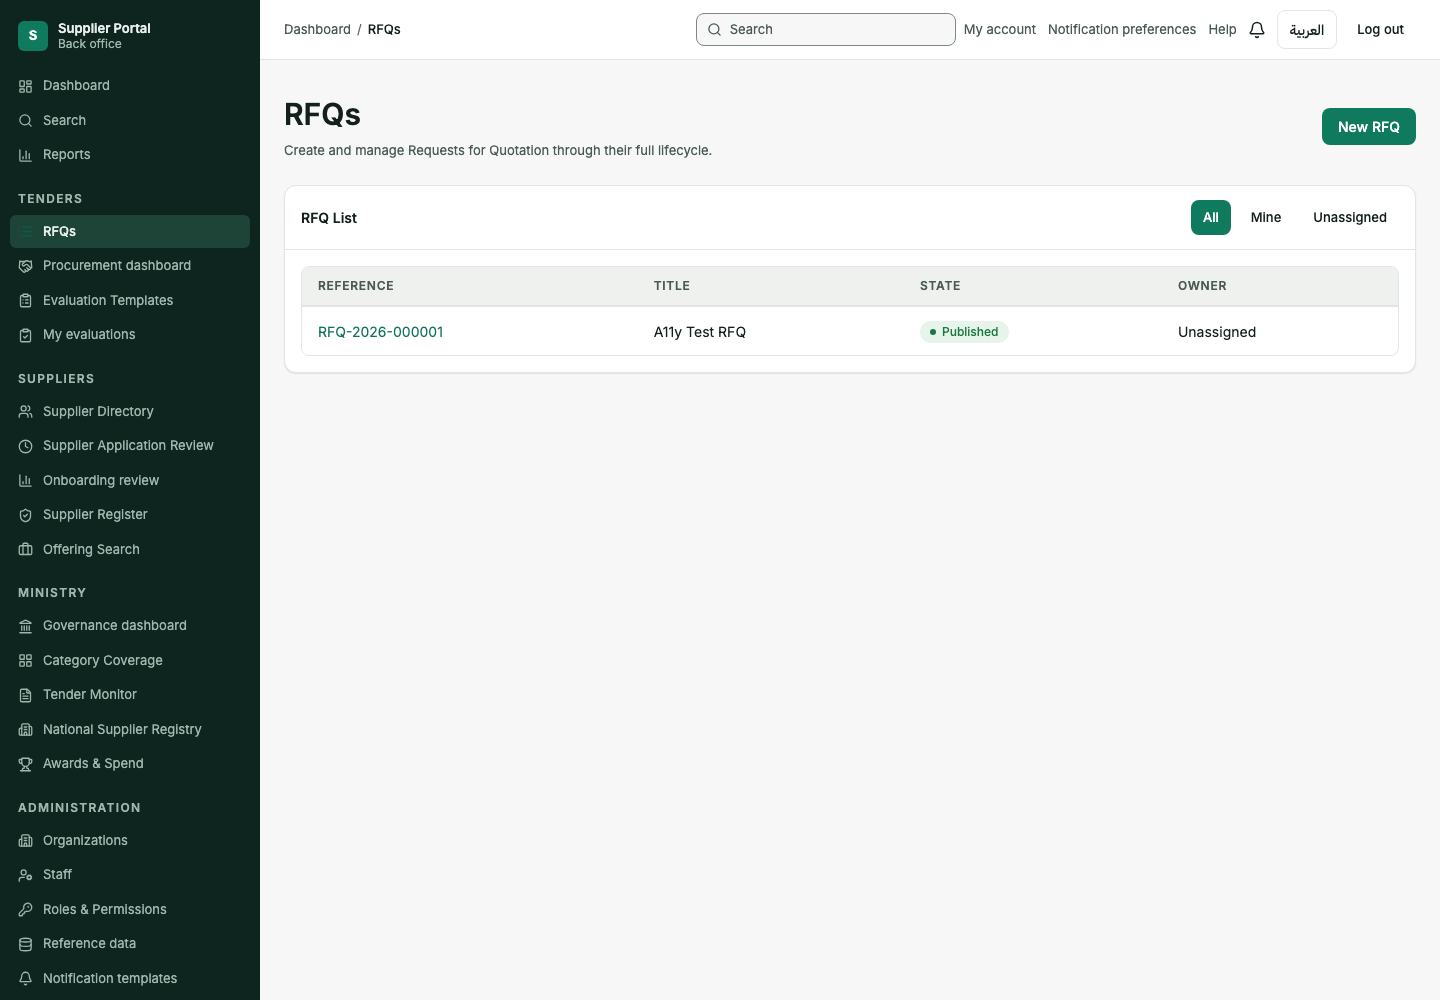
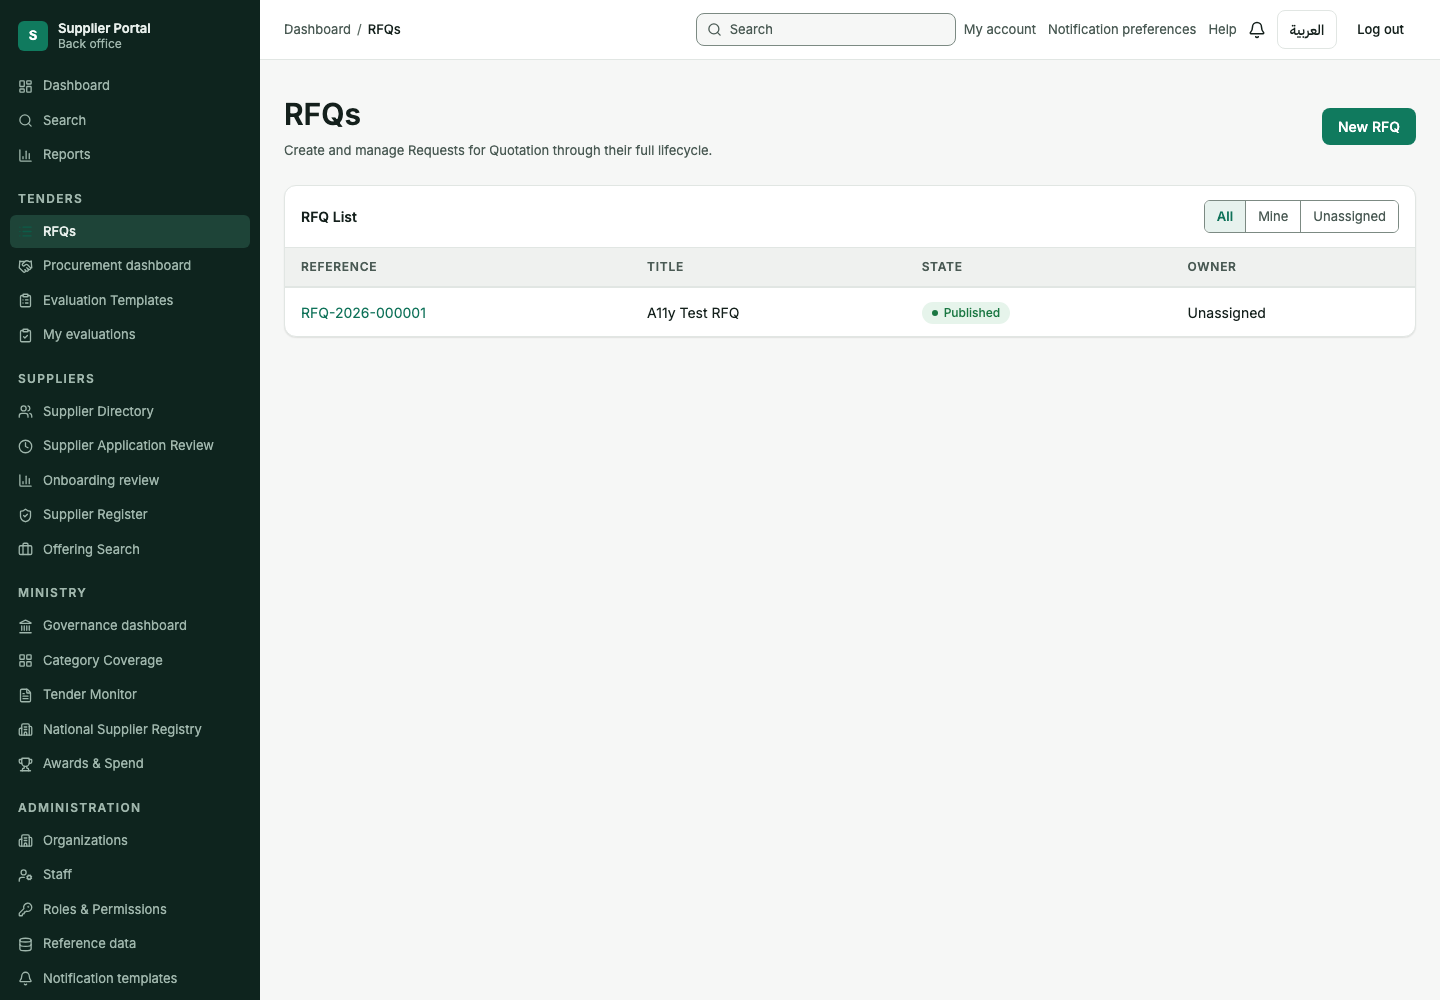
Phase D, the list family: eleven screens become one framed surface (#153)
First of Phase D's four families. Every list screen in the product is now the approved template's
list: a heading with its action beside it, a card whose header carries the list's own filters, and
the table filling that card edge to edge.

THE BOX IN A BOX

A table draws its own border and corners, and it was sitting inside a padded card that drew
another. Two frames a few pixels apart is what every list screen looked like, and it was the one
visible place they departed from the template. Phase C left it alone deliberately, because fixing
it needs the card to know what it is holding.

Card takes `flush` now, and Table takes `flush` to drop the frame something else is providing.
ListCard sets both, because a list card holds exactly one table and knows it. The three states
that are not the table - the skeleton, the failure, the empty line - carry their own padding, and
so does the paging control, because a skeleton pressed against a card's edge reads as broken
rather than as flush.

Two tables needed the exception rather than the rule and got it: the line-items table on a
received proposal sits among other content in a detail panel, so it keeps its own frame because
nothing else there draws one, and the two plain cards that hold a list table went flush to match.

THE FILTER THAT LOOKED LIKE AN ACTION

The tender list drew All / Mine / Unassigned as three separate buttons, the selected one filled
[…]

diff --git a/src/frontend/src/components/ui/SegmentedControl.tsx b/src/frontend/src/components/ui/SegmentedControl.tsx
@@ -1,0 +1,62 @@
+/**
+ * A small set of mutually exclusive filters, drawn as one control rather than as loose buttons.
+ *
+ * <p><b>What it replaces.</b> The tender list drew its All / Mine / Unassigned filter as three separate
+ * buttons, the selected one filled in the brand colour and the other two plain. At a glance that reads
+ * as one primary action beside two secondary ones - the same shape the page's own "New tender" button
+ * uses - rather than as three settings of one switch. The approved template draws it joined and
+ * bordered, with the chosen segment washed rather than filled, and that is what this is.</p>
+ *
+ * <p><b>Why a fieldset.</b> The native element carries the grouping and the legend names it, so a
+ * screen reader announces what the buttons are choosing between before it announces the choices. A
+ * `div` with `role="group"` says the same thing with more markup and less support.</p>
+ */
+import type { ReactNode } from 'react'
+
+export interface Segment<T extends string> {
+  value: T
+  label: ReactNode
+}
+
+export function SegmentedControl<T extends string>({ legend, segments, value, onChange }: Readonly<{
+  /** What the segments are choosing between. Announced, and visually hidden. */
+  legend: string
+  segments: readonly Segment<T>[]
+  value: T
+  onChange: (value: T) => void
+}>) {
+  return (
+    <fieldset className="m-0 border-0 p-0">
+      <legend className="sr-only">{legend}</legend>
+      <div
+        className="inline-flex overflow-hidden rounded-[var(--radius-sm)]"
+        style={{ border: '1px solid var(--color-border-strong)' }}
+      >
+        {segments.map((segment, index) => {
+          const selected = segment.value === value
+          return (
+            <button
+              key={segment.value}
+              type="button"
+              // `aria-pressed` rather than a radio group: these are buttons that act at once, and a
+              // radio would promise a form to submit that does not exist.
+              aria-pressed={selected}
+              onClick={() => onChange(segment.value)}
+              className="px-3 py-1.5 text-[length:var(--text-body-sm)]"
+              style={{
+                backgroundColor: selected ? 'var(--color-accent-wash)' : 'var(--color-bg-surface)',
+                color: selected ? 'var(--color-text-brand)' : 'var(--color-text-secondary)',
+                fontWeight: selected ? 'var(--fw-semibold)' : undefined,
+                // A rule between segments rather than around each: the group has the outer border, so
+                // per-segment borders would double it at both ends.
+                borderInlineStart: index === 0 ? undefined : '1px solid var(--color-border-strong)',
+              }}
+            >
+              {segment.label}
+            </button>
+          )
+        })}
+      </div>
+    </fieldset>
+  )
+}

diff --git a/src/frontend/src/components/ui/ListScreen.tsx b/src/frontend/src/components/ui/ListScreen.tsx
@@ -139,15 +139,20 @@ export function ListState({
   skeletonRows?: number
   children: ReactNode
 }>) {
+  // The three states that are not the caller's content carry their own padding, because the card
+  // around them no longer does: a list card holds a table edge to edge, and a skeleton, an error or
+  // an empty line pressed against that edge reads as broken rather than as flush.
+  const padded = (node: ReactNode) => <div className="p-4">{node}</div>
+
   if (isPending) {
-    return skeleton === 'list'
+    return padded(skeleton === 'list'
       ? <SkeletonList label={loadingLabel} rows={skeletonRows} />
-      : <SkeletonTable label={loadingLabel} rows={skeletonRows} />
+      : <SkeletonTable label={loadingLabel} rows={skeletonRows} />)
   }
   // Delegates rather than rendering its own paragraph. QueryError carries role="alert" and the retry
   // control; a second, quieter error presentation here meant that adopting ListState LOST both.
-  if (isError) return <QueryError error={error} errorText={errorText} onRetry={onRetry} />
-  if (isEmpty) return <p style={{ color: 'var(--color-text-secondary)' }}>{emptyText}</p>
+  if (isError) return padded(<QueryError error={error} errorText={errorText} onRetry={onRetry} />)
+  if (isEmpty) return padded(<p style={{ color: 'var(--color-text-secondary)' }}>{emptyText}</p>)
   return <>{children}</>
 }
 
@@ -204,7 +209,9 @@ export function LoadMore({
 }>) {
   if (!hasNextPage) return null
   return (
-    <div className="mt-4">
+    // Padded rather than margined: this sits below a table that now reaches the card's edges, so the
+    // control needs the inset the card stopped providing.
+    <div className="p-4">
       <Button variant="secondary" isLoading={isFetching} onClick={onClick}>
         {label}
       </Button>
@@ -269,8 +276,16 @@ export function ListCard({
   footer?: ReactNode
   children: ReactNode
 }>) {
+  // Flush, because the one thing a list card holds is a table and a table brings its own edges. The
+  // template's list screen is a single framed surface; a padded card round a bordered table is two
+  // frames a few pixels apart, which is what this looked like before.
+  //
+  // The template also puts a count in this header - "18 tenders". There is no honest count to put
+  // there: these lists are paged, and the envelope's `totalCount` is null unless the request asks for
+  // it, which no request does. A header reading "18 tenders" over seven loaded rows would be the screen
+  // saying something it does not know, so it says nothing.
   return (
-    <Card title={title} action={action}>
+    <Card flush title={title} action={action}>
       <ListState
         isPending={query.isPending}
         isError={query.isError}

diff --git a/src/frontend/src/routes/back-office/RfqListPage.tsx b/src/frontend/src/routes/back-office/RfqListPage.tsx
@@ -2,7 +2,7 @@ import { useState } from 'react'
 import { useTranslation } from 'react-i18next'
 import { useInfiniteQuery, useMutation, useQueryClient } from '@tanstack/react-query'
 import { Link } from '@tanstack/react-router'
-import {Button, Dialog, Field, Input, ListCard, PageHeading, StatusChip, Table, TableBody, TableCell, TableHead, TableHeaderCell, TableRow, useToast} from '../../components/ui'
+import {Button, Dialog, Field, Input, ListCard, PageHeading, SegmentedControl, StatusChip, Table, TableBody, TableCell, TableHead, TableHeaderCell, TableRow, useToast} from '../../components/ui'
 import { invalidateQuietly } from '../../lib/queryClient'
 import { nextPageParam } from '../../api/listEnvelope'
 import { listRfqs, createRfq, RfqApiError, type RfqOwnerFilter } from '../../api/rfqs'
@@ -72,27 +72,18 @@ export function RfqListPage() {
           loadMore: t('rfq.loadMore'),
         }}
         action={
-          <fieldset className="m-0 flex flex-wrap gap-2 border-0 p-0">
-            {/* <fieldset>, not <div role="group">: the native element carries the same grouping
-                semantics without asserting a role, and its <legend> is the accessible name rather than
-                an aria-label duplicating one. The classes strip the border and padding a fieldset
-                brings by default. */}
-            <legend className="sr-only">{t('rfq.ownerFilter.label')}</legend>
-            {(['all', 'me', 'unassigned'] as const).map((value) => (
-              <Button
-                key={value}
-                size="sm"
-                variant={owner === value ? 'primary' : 'ghost'}
-                aria-pressed={owner === value}
-                onClick={() => setOwner(value)}
-              >
-                {t(`rfq.ownerFilter.${value}`)}
-              </Button>
-            ))}
-          </fieldset>
+          <SegmentedControl
+            legend={t('rfq.ownerFilter.label')}
+            value={owner}
+            onChange={setOwner}
+            segments={(['all', 'me', 'unassigned'] as const).map((value) => ({
+              value,
+              label: t(`rfq.ownerFilter.${value}`),
+            }))}
+          />
         }
       >
-        <Table caption={t('rfq.listTitle')}>
+        <Table flush caption={t('rfq.listTitle')}>
           <TableHead>
             <TableHeaderCell>{t('rfq.fields.reference')}</TableHeaderCell>
             <TableHeaderCell>{t('rfq.fields.title')}</TableHeaderCell>

diff --git a/src/frontend/src/components/ui/Table.tsx b/src/frontend/src/components/ui/Table.tsx
@@ -14,11 +14,23 @@ function rowBackground(highlight: boolean | undefined, sticky: boolean | undefin
   return undefined
 }
 
-export function Table({ children, caption, maxHeight }: { children: ReactNode; caption?: string; maxHeight?: string }) {
+export function Table({ children, caption, maxHeight, flush = false }: {
+  children: ReactNode
+  caption?: string
+  maxHeight?: string
+  /**
+   * Drop this table's own border and corners, because the surface around it already has them.
+   *
+   * <p>Set by a list card, which holds exactly one table and draws the frame itself. Two frames a few
+   * pixels apart is what a table inside a padded card looked like, and it is the difference between
+   * this product's list screens and the template they are meant to match.</p>
+   */
+  flush?: boolean
+}) {
   return (
     <div
-      className="w-full overflow-auto rounded-[var(--radius-md)]"
-      style={{ border: '1px solid var(--color-border)', maxHeight }}
+      className={`w-full overflow-auto ${flush ? '' : 'rounded-[var(--radius-md)]'}`}
+      style={{ border: flush ? undefined : '1px solid var(--color-border)', maxHeight }}
     >
       {/* The one line that made 13px the most common size on every screen the audit measured: tables are
           the dominant content on 33 of the 65 screens, and this set all of them below the body floor.

diff --git a/src/frontend/src/components/ui/Card.tsx b/src/frontend/src/components/ui/Card.tsx
@@ -3,12 +3,21 @@ import type { ReactNode } from 'react'
 interface CardProps {
   title?: string
   action?: ReactNode
+  /**
+   * Hold the content edge to edge rather than padding it.
+   *
+   * <p>For the one thing that brings its own edges: a table. Padded, a table draws its own frame a few
+   * pixels inside the card's, which reads as a box in a box and is the one place this product's list
+   * screens visibly departed from the approved template. Everything else keeps the padding, because
+   * everything else is content rather than a surface.</p>
+   */
+  flush?: boolean
   children: ReactNode
 }
 
 /** Section container per DESIGN-SYSTEM §6.7 - the surface/border/radius/padding pattern every
  * onboarding section already repeats inline, extracted so new screens don't hand-roll it again. */
-export function Card({ title, action, children }: CardProps) {
+export function Card({ title, action, flush = false, children }: CardProps) {
   return (
     <div
       className="overflow-hidden rounded-[var(--radius-lg)]"
@@ -40,7 +49,7 @@ export function Card({ title, action, children }: CardProps) {
           {action}
         </div>
       ) : null}
-      <div className="p-4">{children}</div>
+      <div className={flush ? '' : 'p-4'}>{children}</div>
     </div>
   )
 }

diff --git a/src/frontend/src/routes/DocumentsPage.tsx b/src/frontend/src/routes/DocumentsPage.tsx
@@ -118,8 +118,8 @@ export function DocumentsPage() {
         </Card>
       ) : null}
 
-      <Card title={t('documents.listTitle')}>
-        <Table caption={t('documents.listTitle')}>
+      <Card flush title={t('documents.listTitle')}>
+        <Table flush caption={t('documents.listTitle')}>
           <TableHead>
             <TableHeaderCell>{t('documents.fields.type')}</TableHeaderCell>
             <TableHeaderCell>{t('documents.fields.required')}</TableHeaderCell>
@@ -217,7 +217,7 @@ export function DocumentsPage() {
           skeleton="list"
           skeletonRows={3}
         >
-          <Table caption={t('documents.historyTitle')}>
+          <Table flush caption={t('documents.historyTitle')}>
             <TableHead>
               <TableHeaderCell>{t('documents.fields.version')}</TableHeaderCell>
               <TableHeaderCell>{t('documents.fields.state')}</TableHeaderCell>

diff --git a/src/frontend/src/routes/back-office/ReceivedProposalsPage.tsx b/src/frontend/src/routes/back-office/ReceivedProposalsPage.tsx
@@ -25,7 +25,7 @@ function ProposalsTable({ proposals, isArabic, locale, onOpen }: Readonly<{
 }>) {
   const { t } = useTranslation()
   return (
-    <Table caption={t('receivedProposals.listTitle')}>
+    <Table flush caption={t('receivedProposals.listTitle')}>
       <TableHead>
         <TableHeaderCell>{t('receivedProposals.fields.supplier')}</TableHeaderCell>
         <TableHeaderCell>{t('receivedProposals.fields.proposal')}</TableHeaderCell>
@@ -211,7 +211,7 @@ export function ReceivedProposalsPage() {
               </Card>
             ) : null}
 
-            <Card title={t('receivedProposals.listTitle')}>
+            <Card flush title={t('receivedProposals.listTitle')}>
               {list && list.proposals.length > 0 ? (
                 <ProposalsTable proposals={list.proposals} isArabic={isArabic} locale={locale} onOpen={setSelected} />
               ) : (

diff --git a/src/frontend/src/routes/ministry/MinistrySupplierRegistryPage.tsx b/src/frontend/src/routes/ministry/MinistrySupplierRegistryPage.tsx
@@ -70,7 +70,7 @@ export function MinistrySupplierRegistryPage() {
         skeletonRows={6}
         labels={{ loading: t('common.loading'), error: t('ministrySuppliers.loadFailed'), empty: t('ministrySuppliers.empty'), loadMore: t('ministrySuppliers.loadMore') }}
       >
-        <Table caption={t('ministrySuppliers.title')}>
+        <Table flush caption={t('ministrySuppliers.title')}>
         <TableHead labels={[t('ministrySuppliers.fields.supplier'), t('ministrySuppliers.fields.categories'), t('ministrySuppliers.fields.onboarding'), t('ministrySuppliers.fields.standing'), t('ministrySuppliers.fields.bids'), t('ministrySuppliers.fields.won'), t('ministrySuppliers.fields.registered')]} />
         <TableBody>
           {suppliers.map((supplier) => (

diff --git a/src/frontend/src/routes/back-office/SupplierDirectoryPage.tsx b/src/frontend/src/routes/back-office/SupplierDirectoryPage.tsx
@@ -97,7 +97,7 @@ export function SupplierDirectoryPage() {
         isEmpty={suppliers.length === 0}
         labels={{ loading: t('common.loading'), error: t('supplierDirectory.error'), empty: t('supplierDirectory.empty'), loadMore: t('supplierDirectory.loadMore') }}
       >
-        <Table caption={t('supplierDirectory.title')}>
+        <Table flush caption={t('supplierDirectory.title')}>
           <TableHead labels={[t('supplierDirectory.fields.name'), t('supplierDirectory.fields.code'), t('supplierDirectory.fields.categories'), t('supplierDirectory.fields.offerings'), t('supplierDirectory.fields.location'), t('supplierDirectory.fields.state')]} />
           <TableBody>
             {suppliers.map((s) => (

diff --git a/src/frontend/src/routes/ComplianceDirectoryPage.tsx b/src/frontend/src/routes/ComplianceDirectoryPage.tsx
@@ -87,7 +87,7 @@ export function ComplianceDirectoryPage() {
         isEmpty={suppliers.length === 0}
         labels={{ loading: t('common.loading'), error: t('complianceDirectory.error'), empty: t('complianceDirectory.empty'), loadMore: t('complianceDirectory.loadMore') }}
       >
-        <Table caption={t('complianceDirectory.title')}>
+        <Table flush caption={t('complianceDirectory.title')}>
           <TableHead labels={[t('complianceDirectory.fields.name'), t('complianceDirectory.fields.onboarding'), t('complianceDirectory.fields.lifecycle'), t('complianceDirectory.fields.documents'), t('complianceDirectory.fields.registered')]} />
           <TableBody>
             {suppliers.map((s) => (

diff --git a/src/frontend/src/routes/ministry/MinistryRfqMonitorPage.tsx b/src/frontend/src/routes/ministry/MinistryRfqMonitorPage.tsx
@@ -68,7 +68,7 @@ export function MinistryRfqMonitorPage() {
         skeletonRows={6}
         labels={{ loading: t('common.loading'), error: t('ministryRfqs.loadFailed'), empty: t('ministryRfqs.empty'), loadMore: t('ministryRfqs.loadMore') }}
       >
-        <Table caption={t('ministryRfqs.title')}>
+        <Table flush caption={t('ministryRfqs.title')}>
         <TableHead labels={[t('ministryRfqs.fields.tender'), t('ministryRfqs.fields.organization'), t('ministryRfqs.fields.state'), t('ministryRfqs.fields.bids'), t('ministryRfqs.fields.closes'), t('ministryRfqs.fields.awarded')]} />
         <TableBody>
           {rfqs.map((rfq) => (

diff --git a/src/frontend/src/components/ui/index.ts b/src/frontend/src/components/ui/index.ts
@@ -15,6 +15,8 @@ export { Skeleton, SkeletonList, SkeletonTable, SkeletonGrid } from './Skeleton'
 export { StatusChip, LABELLED_MACHINES } from './StatusChip'
 export type { StatusMachine } from './StatusChip'
 export { PageHeading, FilterField, FilterBar, SearchField, ListState, ListCard, LoadMore, QueryError } from './ListScreen'
+export { SegmentedControl } from './SegmentedControl'
+export type { Segment } from './SegmentedControl'
 export { Stepper } from './Stepper'
 export type { Step, StepState } from './Stepper'
 export { FactList } from './FactList'
